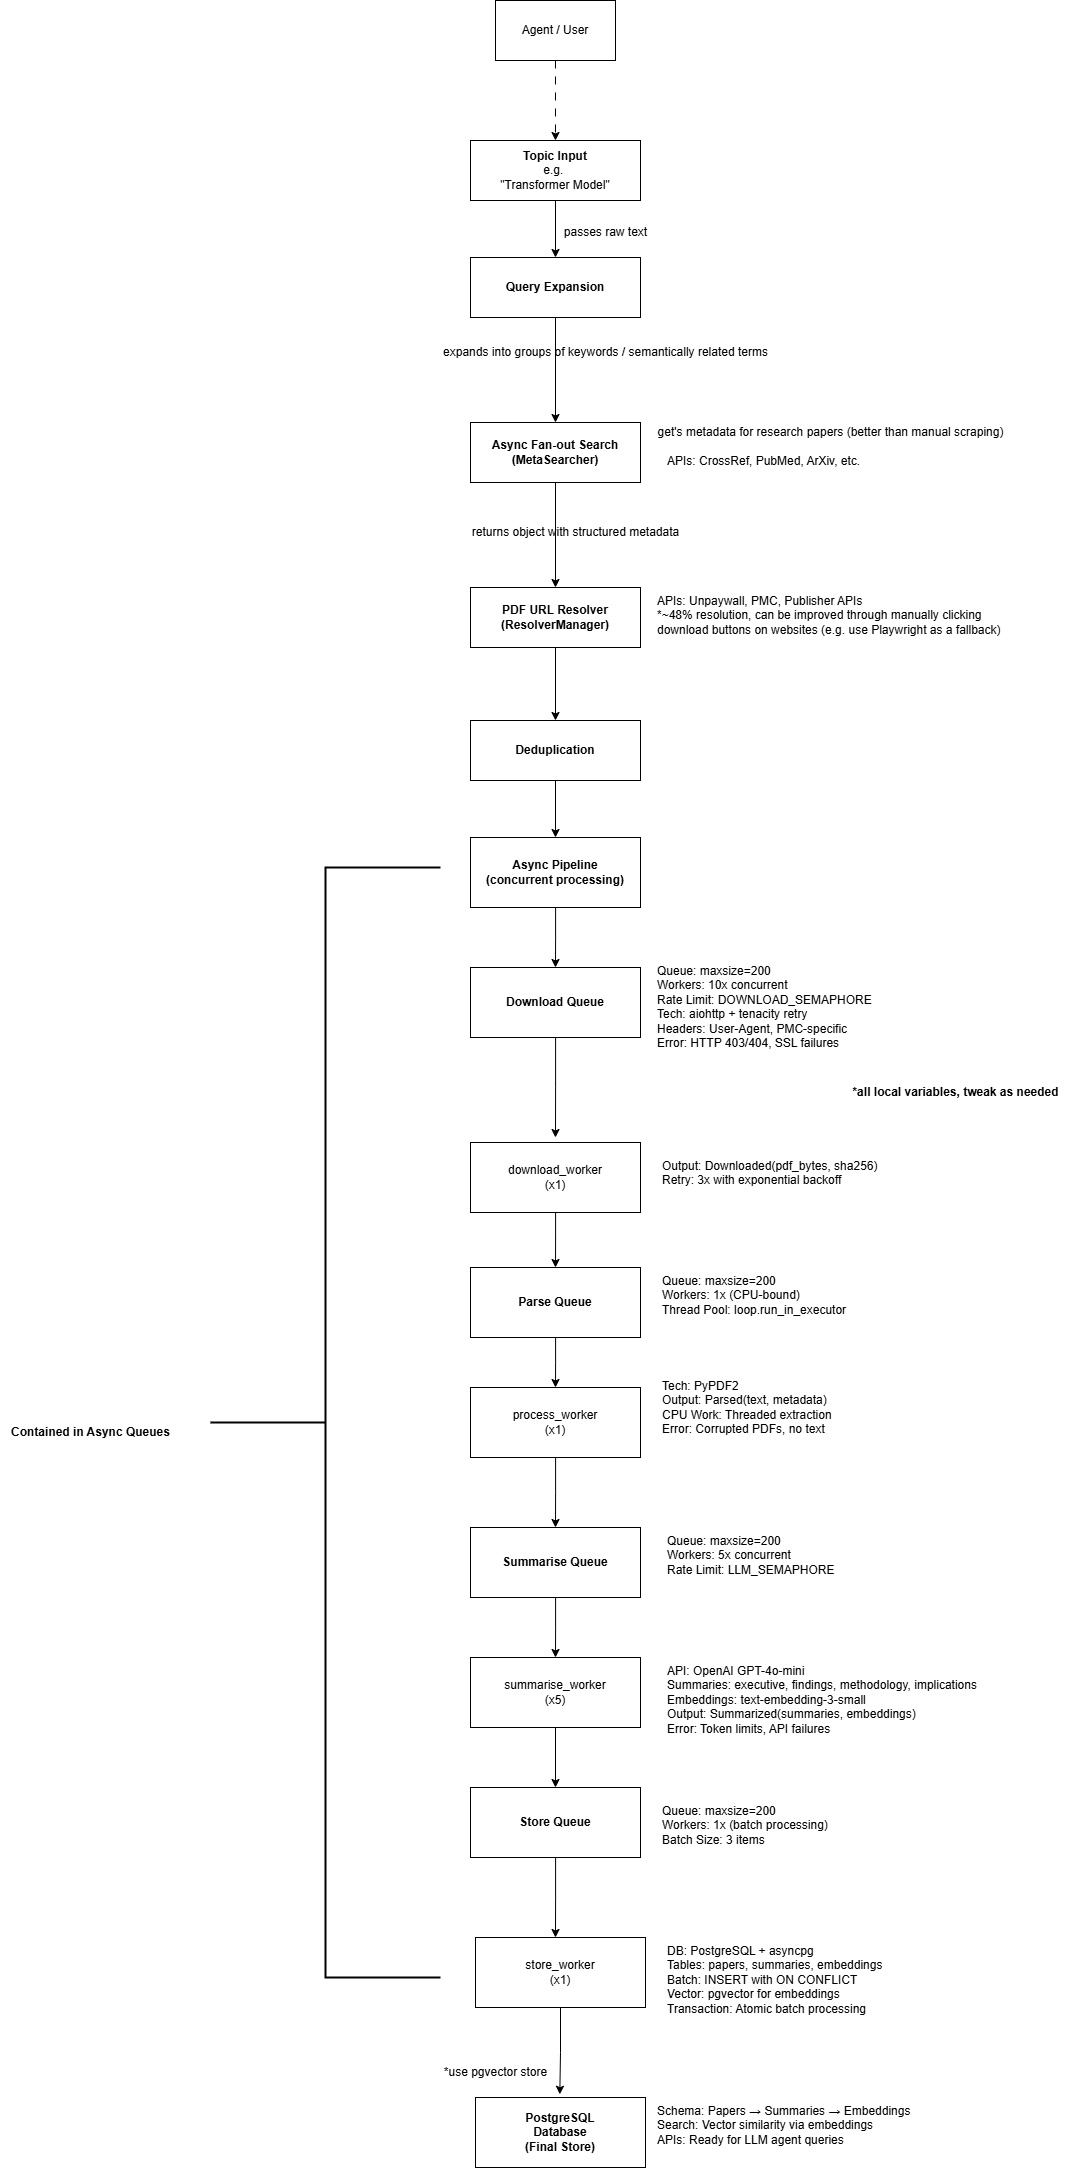
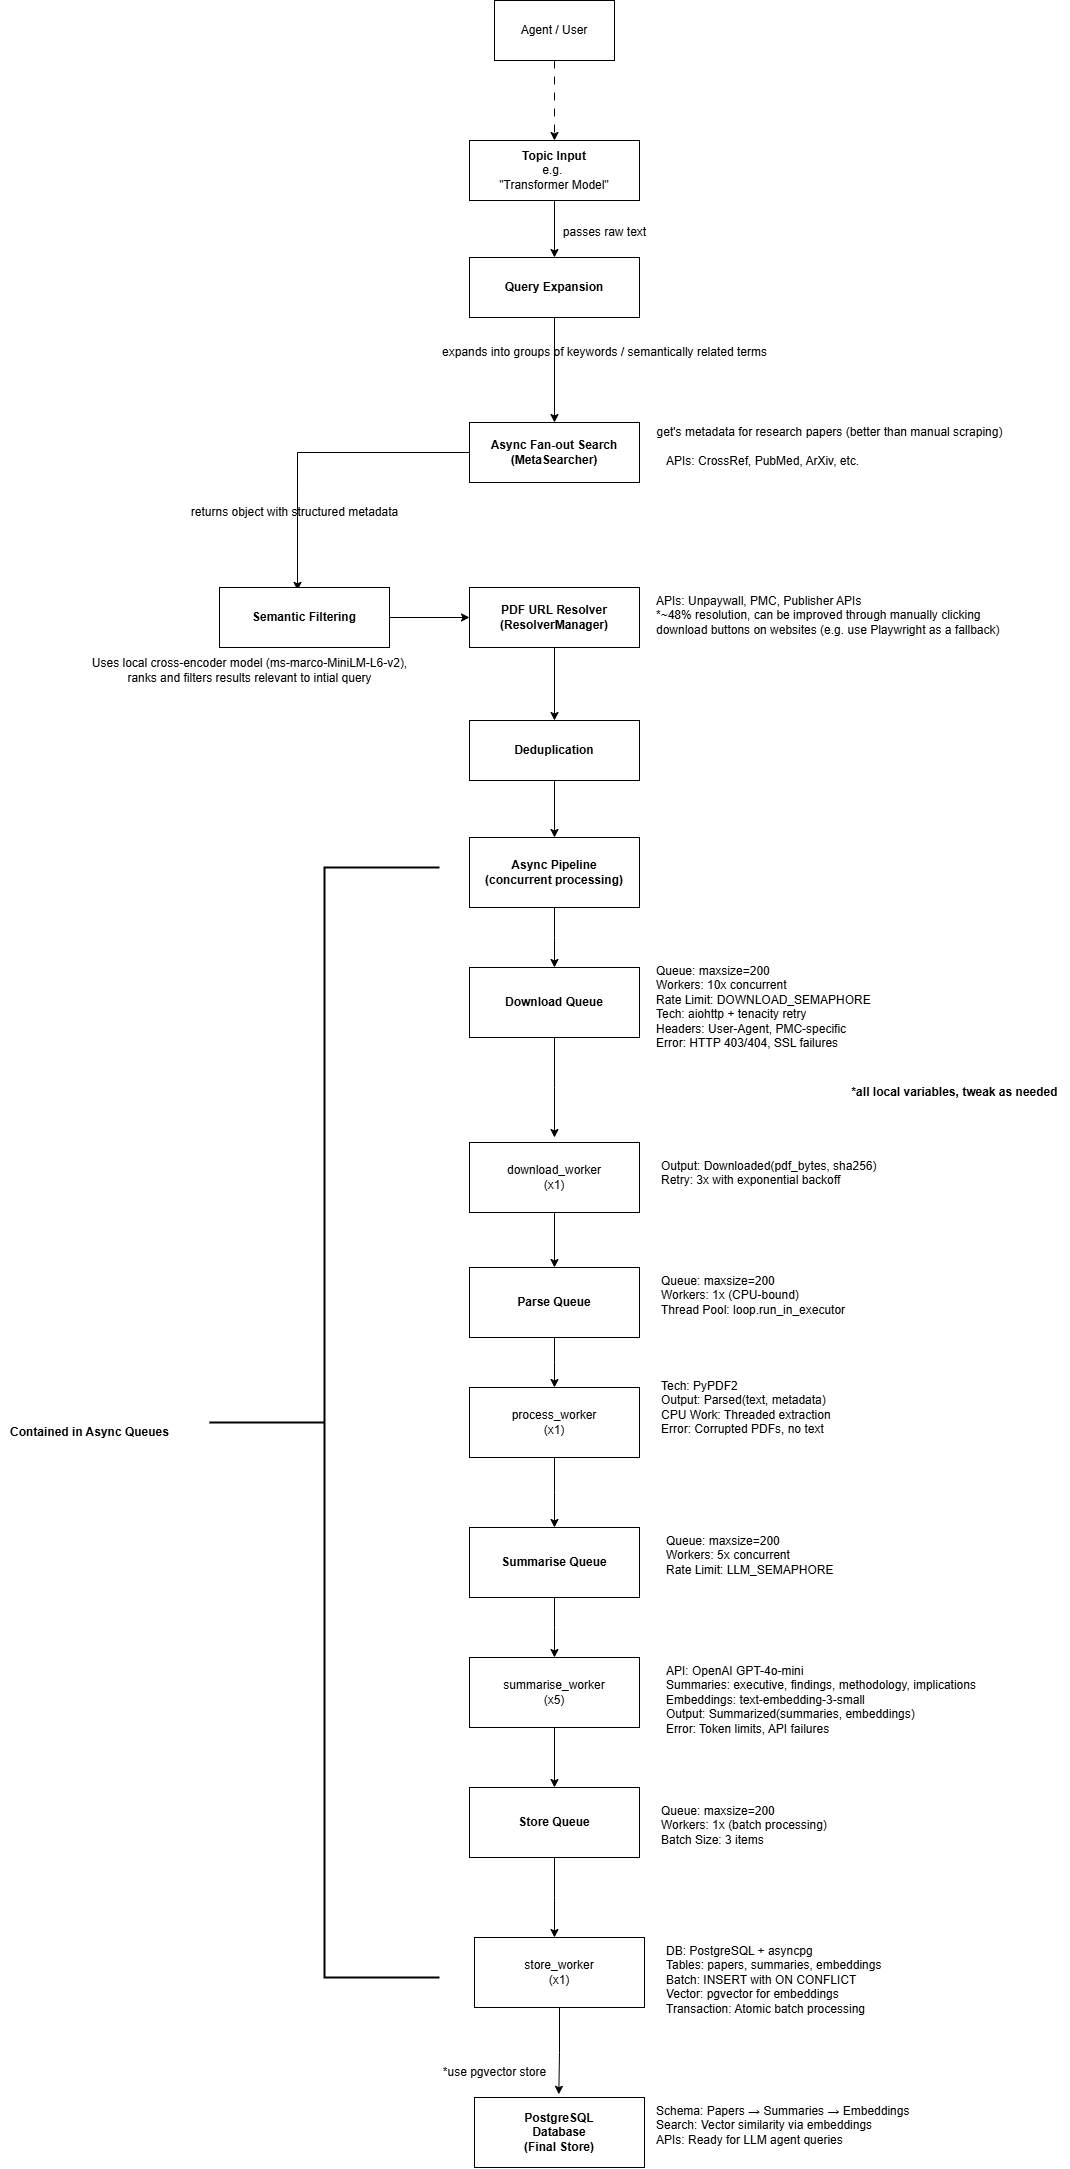
updated readme.

diff --git a/README.md b/README.md
@@ -38,7 +38,20 @@ These mockups show potential interfaces for:
 
 ![Architecture Flowchart](readme_assets/architecture_flowchart.png)
 
-### Pipeline Design
+### Semantic Filtering
+
+The pipeline uses a lightweight cross-encoder model for semantic relevance filtering:
+
+- **Model**: `cross-encoder/ms-marco-MiniLM-L6-v2` - a small, efficient model for semantic similarity
+- **Local Storage**: Model is cached locally in `models/cross-encoder-ms-marco-MiniLM-L6-v2`
+- **Fallback**: Downloads from HuggingFace if local model not found
+- **Usage**: Scores paper titles against search queries to filter irrelevant results
+- **Scoring**: Returns relevance scores from -3 to +8, with higher scores indicating better matches
+- **Threshold**: Papers scoring below a certain threshold are filtered out as not relevant enough
+
+This semantic filtering helps ensure that only truly relevant papers are processed, improving the quality of the research results.
+
+### Pipeline Design (can be tweaked, these values are just what worked here)
 
 The system uses **producer-consumer queues** with **async workers** for concurrent processing:
 
